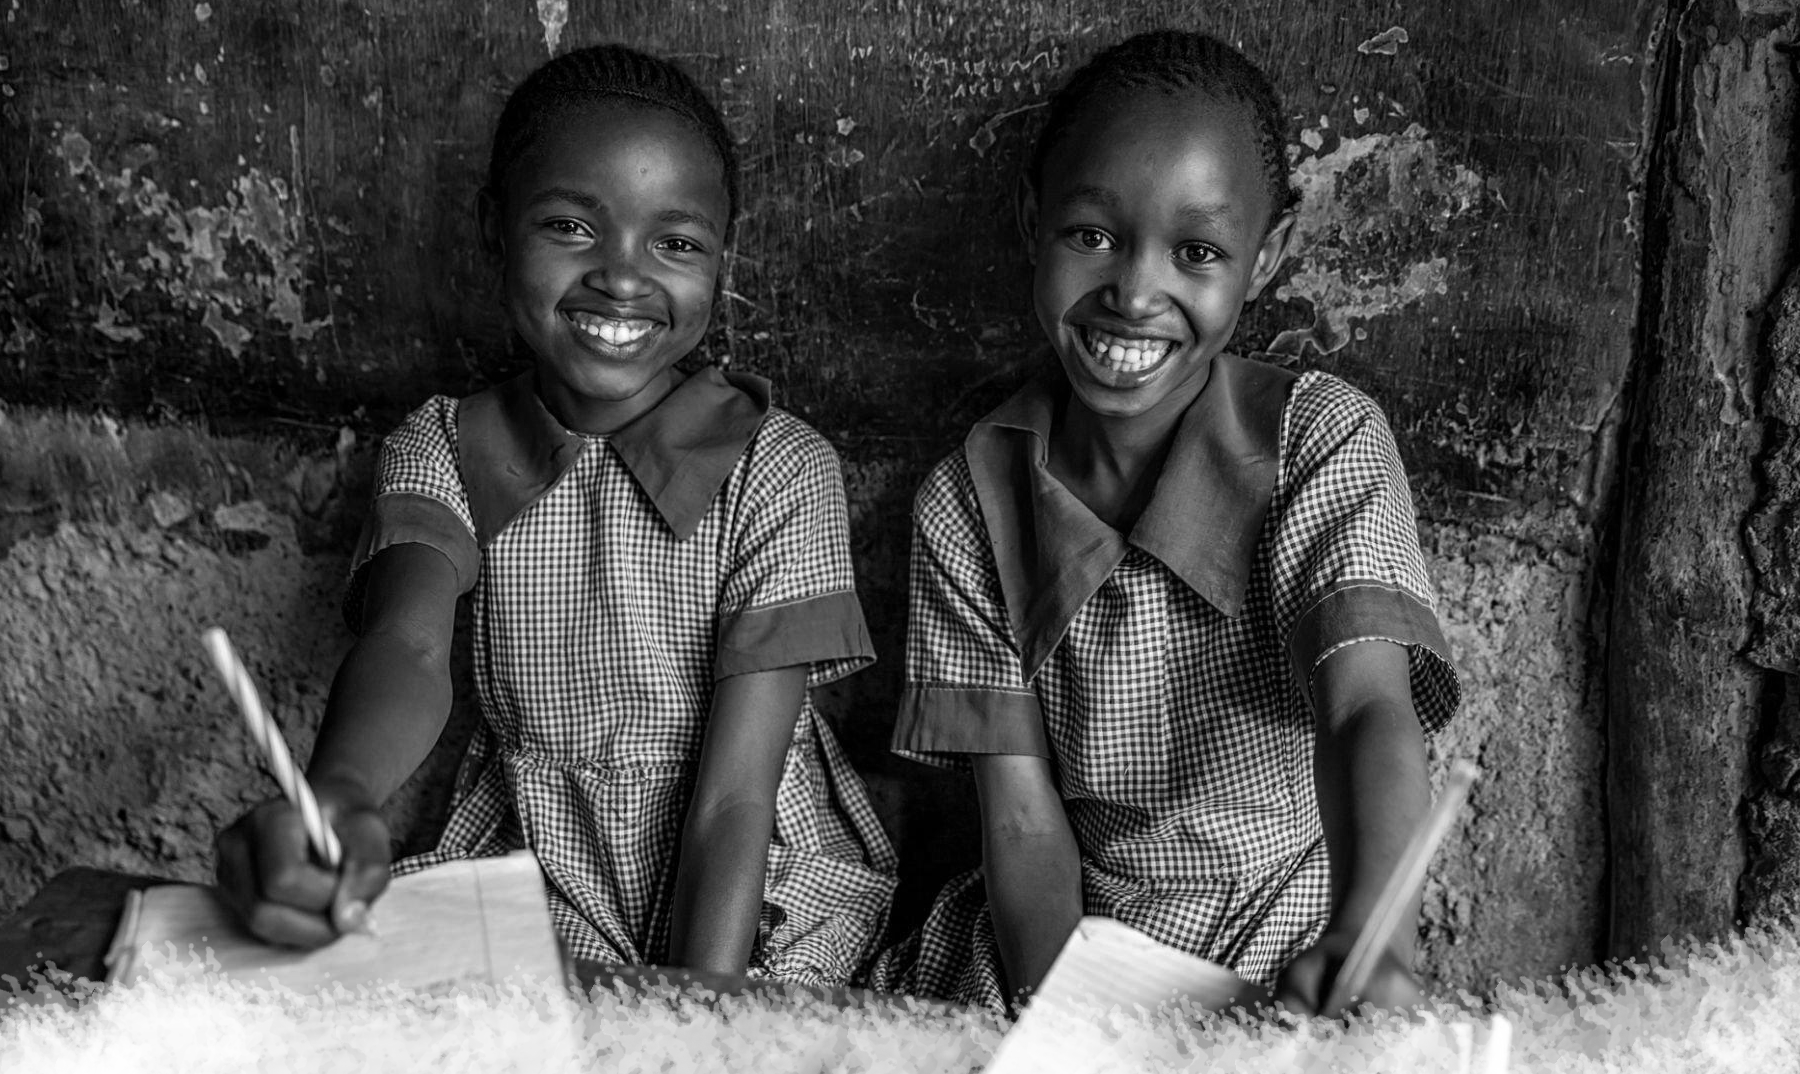
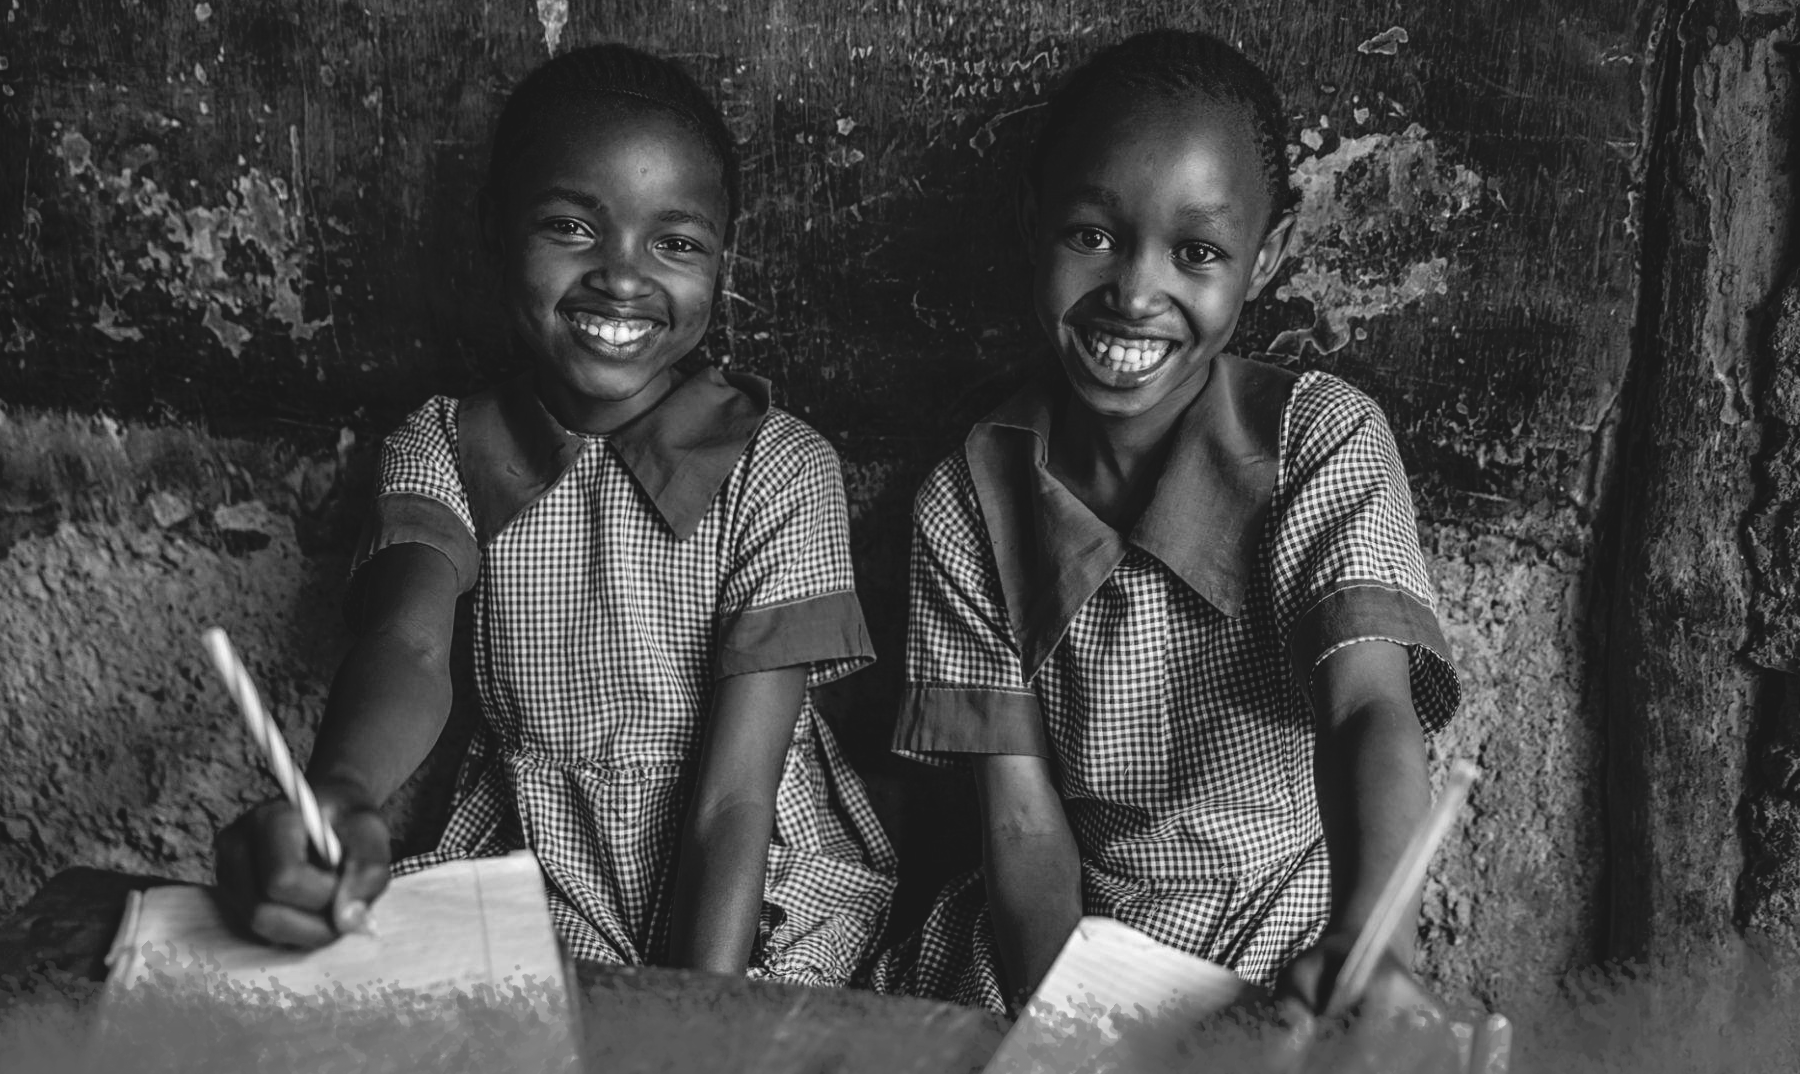
new image

Changed region(s): [[0.0, 0.8296, 1.0, 1.0], [0.4978, 0.7682, 0.5289, 0.8296], [0.9956, 0.2151, 1.0, 0.2458]]

diff --git a/index.html b/index.html
@@ -138,7 +138,7 @@
 				<div class="container">
 					<div class="row">
 						<div class="col-xl-10 m-auto wow fadeInUp" data-wow-delay="0.2s">
-							<h1 class="hero-heading text-white mb-50 md-mb-30">Dedicated to<span class="position-relative">Empowering<img src="images/shape/shape_71.svg" alt=""></span> <br>Rural Communities</h1>
+							<h1 class="hero-heading text-white mb-50 md-mb-30">We<span class="position-relative"> Empower<img src="images/shape/shape_71.svg" alt=""></span> <br>Rural Communities</h1>
 						</div>
 					</div>
 					<a href="contact-us.html" class="donate-btn fw-500 tran3s wow fadeInUp" data-wow-delay="0.4s">Donate now</a>

diff --git a/css/style.css b/css/style.css
@@ -3373,7 +3373,7 @@ body .btn-twentySix:hover:after {top: 0; left: 0;}
 }
 /*^^^^^^^^^^^^^^^^^^^^^ Theme Hero Banner Five ^^^^^^^^^^^^^^^^^^^^^^^^*/
 .hero-banner-five {
-  background: url(../images/assets/hero_02.png) no-repeat center bottom;
+  background: url(../images/assets/hero_01.jpg) no-repeat center bottom;
   background-size: cover;
   z-index: 1;
   padding: 300px 0 300px;
